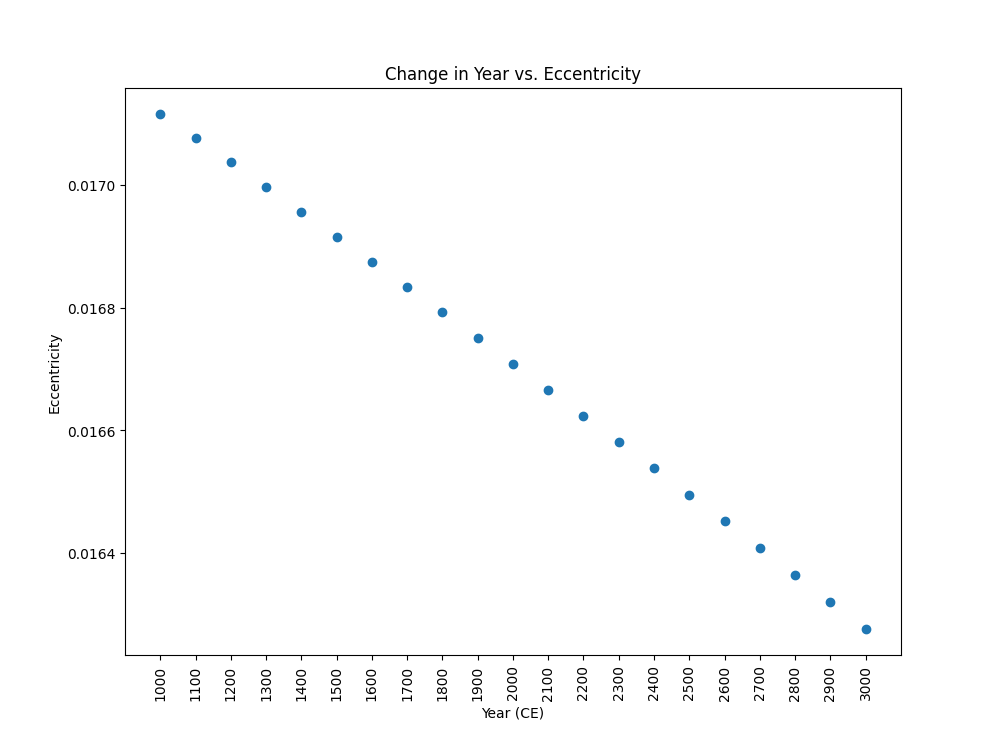
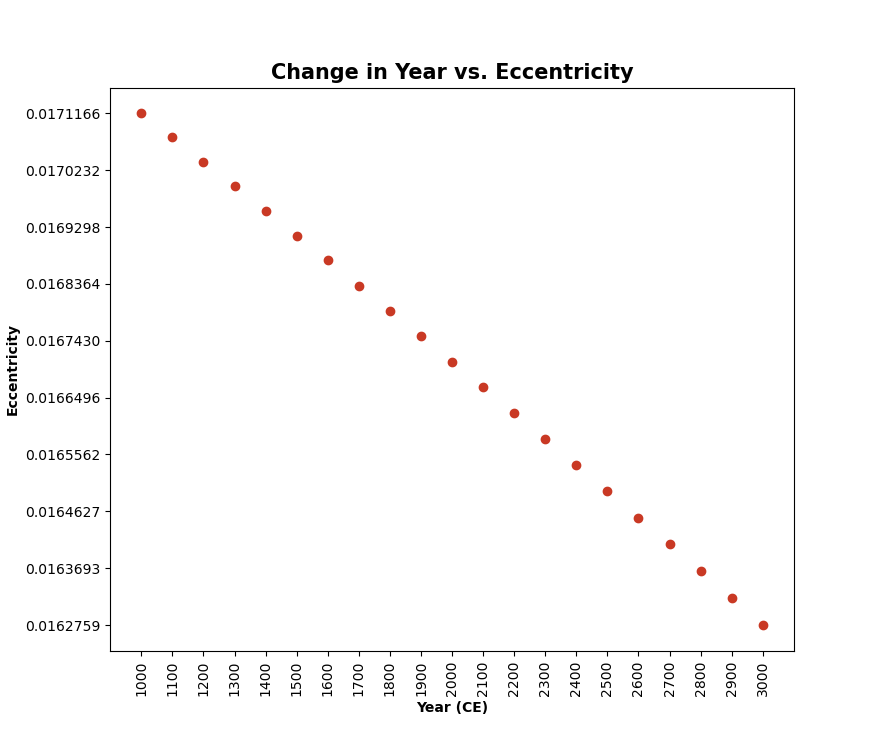
update plot colors

diff --git a/page_21_astrolabe/calculate_eccentric_calendar_offset.py b/page_21_astrolabe/calculate_eccentric_calendar_offset.py
@@ -60,12 +60,13 @@ def plotEccentricityOverTime(offset_year):
 		y_eccentricity.append(e)
 
 	plt.xticks(x_year_range, rotation=90)
-	plt.title("Change in Year vs. Eccentricity")
-	plt.xlabel("Year (CE)")
-	plt.ylabel("Eccentricity")
-	plt.scatter(x_year_range, y_eccentricity)
+	plt.yticks(np.linspace(min(y_eccentricity), max(y_eccentricity), 10))
+	plt.title("Change in Year vs. Eccentricity", fontsize=15, weight='bold')
+	plt.xlabel("Year (CE)", weight='bold')
+	plt.ylabel("Eccentricity", weight='bold')
+	plt.scatter(x_year_range, y_eccentricity, c="#C93924")
 	plt.show()
-	fig.savefig('calculate_eccentric_calendar_offset_outputs/eccentric_calendar_change_in_year_versus_eccentricity.png', dpi=fig.dpi)
+	fig.savefig('calculate_eccentric_calendar_offset_outputs/eccentric_calendar_change_in_year_versus_eccentricity.png', dpi=fig.dpi, transparent=False)
 
 def plotYearToOffset(offset_year, year_to_calculate, radius_of_plate, given_longitude):
 	# plot Year vs. Offset for fixed longitude (0°) for radius 1
@@ -85,14 +86,15 @@ def plotYearToOffset(offset_year, year_to_calculate, radius_of_plate, given_long
 		y_offset_y.append(y_offset)
 
 	plt.xticks(x_year_range, rotation=90)
-	plt.title("Change in Year vs. Offset (X, Y) from Center of Plate")
-	plt.xlabel("Year (CE)")
-	plt.ylabel("Offset with Fixed longitude (0°) and Radius (1)")
-	plt.scatter(x_year_range, y_offset_x)
-	plt.scatter(x_year_range, y_offset_y)
+	plt.yticks(np.linspace(max(y_offset_y), min(y_offset_x), 10))
+	plt.title("Change in Year vs. Offset (X, Y) from Center of Plate", fontsize=15, weight='bold')
+	plt.xlabel("Year (CE)", weight='bold')
+	plt.ylabel("Offset with Fixed longitude (0°) and Radius (1)", weight='bold')
+	plt.scatter(x_year_range, y_offset_x, c="#C93924")
+	plt.scatter(x_year_range, y_offset_y, c="#42617D")
 	plt.legend(["X Offset", "Y Offset"])
 	plt.show()
-	fig.savefig('calculate_eccentric_calendar_offset_outputs/eccentric_calendar_change_in_year_versus_offset.png', dpi=fig.dpi)
+	fig.savefig('calculate_eccentric_calendar_offset_outputs/eccentric_calendar_change_in_year_versus_offset.png', dpi=fig.dpi, transparent=False)
 
 def plotLongitudeToAngularDistance(year_to_calculate):
 	# plot Year vs. Longitude for fixed year (2024) for radius 1
@@ -109,12 +111,13 @@ def plotLongitudeToAngularDistance(year_to_calculate):
 		y_angular_distance_apside.append(vernal_equinox_angle)
 
 	plt.xticks(x_range_longitude, rotation=90)
-	plt.title("Change in Longitude vs. Angluar Distance to Vernal Equinox")
-	plt.xlabel("Longitude (°)")
-	plt.ylabel(f"Vernal Equinox Angle (Apside) with Fixed Year ({yearToCalculate}) and Radius (1)")
-	plt.scatter(x_range_longitude, y_angular_distance_apside)
+	plt.yticks(np.linspace(min(y_angular_distance_apside), max(y_angular_distance_apside), 10))
+	plt.title("Change in Longitude vs. Angluar Distance to Vernal Equinox", fontsize=15, weight='bold')
+	plt.xlabel("Longitude (°)", weight='bold')
+	plt.ylabel(f"Vernal Equinox Angle (Apside) with Fixed Year ({yearToCalculate}) and Radius (1)", weight='bold')
+	plt.scatter(x_range_longitude, y_angular_distance_apside, c="#C93924")
 	plt.show()
-	fig.savefig('calculate_eccentric_calendar_offset_outputs/eccentric_calendar_change_in_longitude_versus_angular_distance.png', dpi=fig.dpi)
+	fig.savefig('calculate_eccentric_calendar_offset_outputs/eccentric_calendar_change_in_longitude_versus_angular_distance.png', dpi=fig.dpi, transparent=False)
 
 if __name__ == '__main__':
 	logger = logging.getLogger(__name__)
